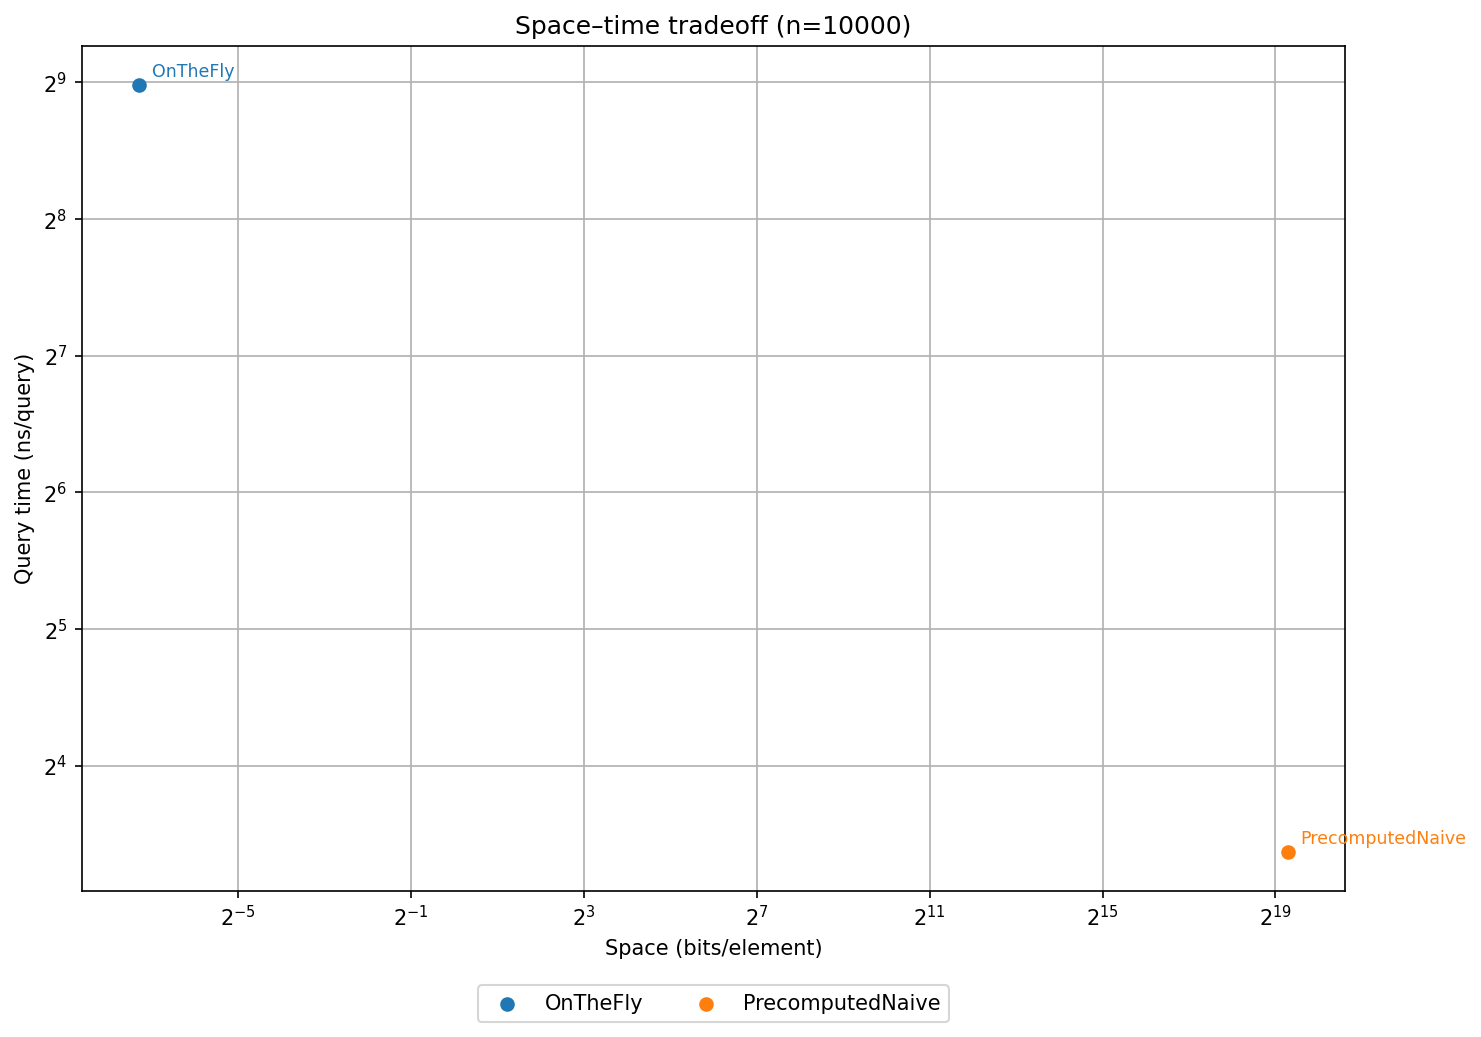
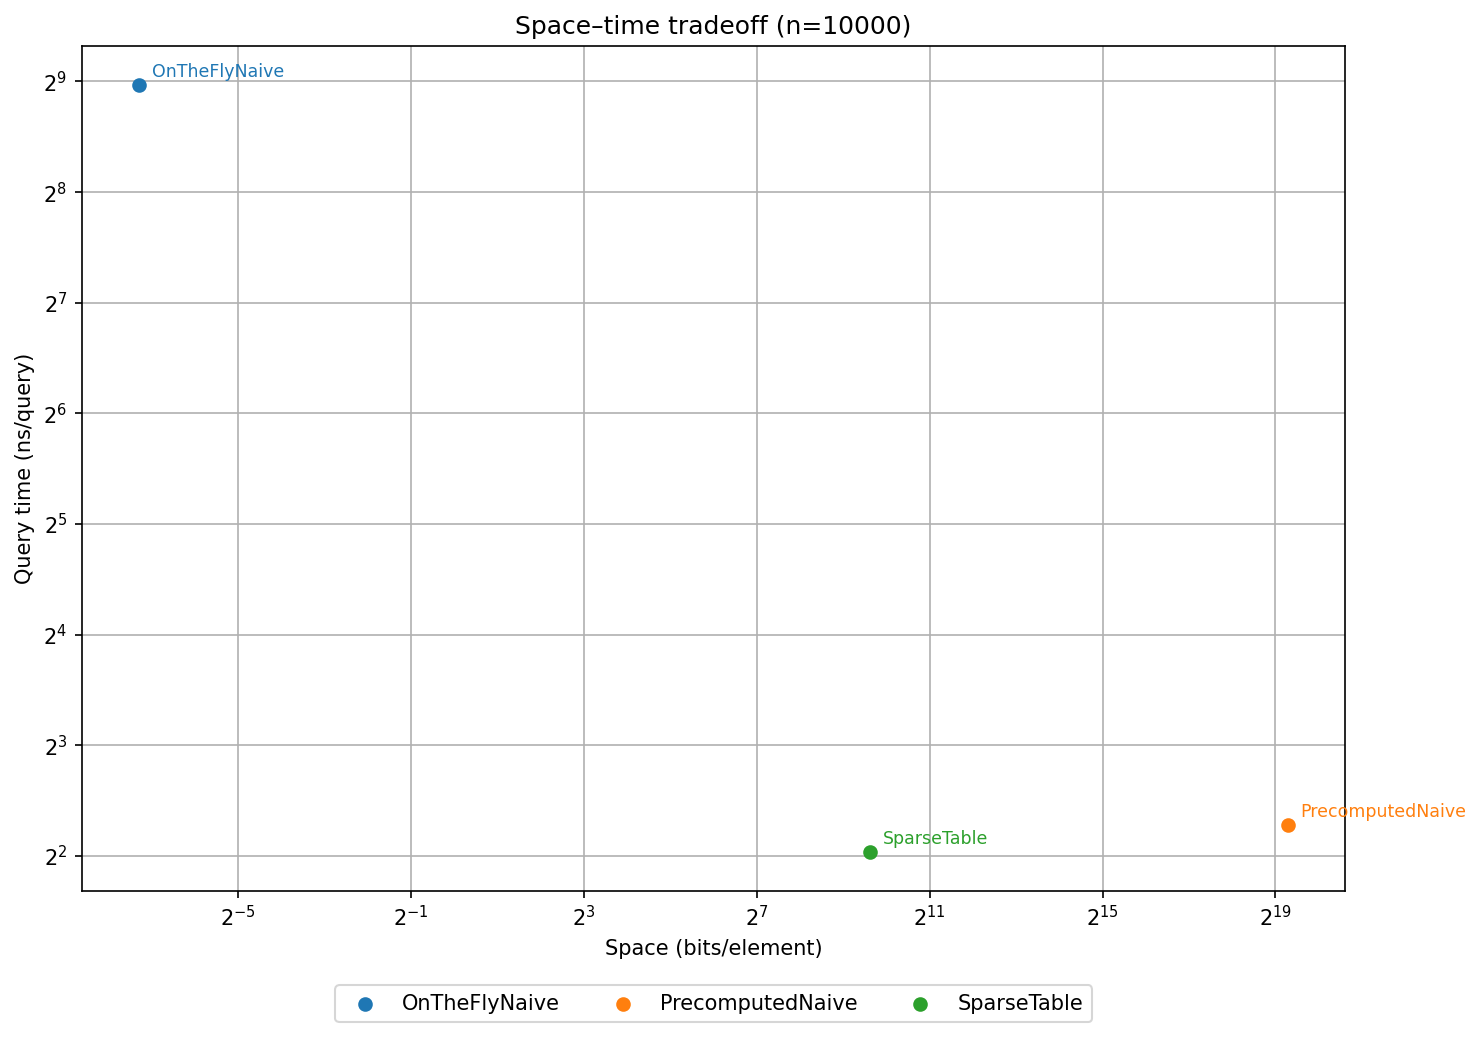
sparse table

diff --git a/rmq-cpp/main.cpp b/rmq-cpp/main.cpp
@@ -17,41 +17,48 @@
 //   uint64_t query(size_t l, size_t r) const;
 
 // Trivial implementation that computes each query on the fly.
-struct OnTheFlyNaive {
+struct OnTheFlyNaive
+{
 	static std::string name() { return "OnTheFlyNaive"; }
 	// NOTE: Improved implementations should simply return size_t::MAX.
 	static size_t max_n() { return 10'000; }
 
-	const std::vector<uint64_t>* data;
+	const std::vector<uint64_t> *data;
 
-	static OnTheFlyNaive build(const std::vector<uint64_t>& data) { return {&data}; }
+	static OnTheFlyNaive build(const std::vector<uint64_t> &data) { return {&data}; }
 
 	size_t space() const { return sizeof(*this); }
 
-	uint64_t query(size_t l, size_t r) const {
+	uint64_t query(size_t l, size_t r) const
+	{
 		uint64_t min = (*data)[l];
-		for(size_t i = l + 1; i <= r; ++i) min = std::min(min, (*data)[i]);
+		for (size_t i = l + 1; i <= r; ++i)
+			min = std::min(min, (*data)[i]);
 		return min;
 	}
 };
 
-struct PrecomputedNaive {
+struct PrecomputedNaive
+{
 	static std::string name() { return "PrecomputedNaive"; }
 
 	static size_t max_n() { return 10'000; }
 
 	std::vector<std::vector<uint64_t>> table;
 
-	static PrecomputedNaive build(const std::vector<uint64_t>& data) {
+	static PrecomputedNaive build(const std::vector<uint64_t> &data)
+	{
 		size_t n = data.size();
 
 		PrecomputedNaive rmq;
 		rmq.table.resize(n, std::vector<uint64_t>(n));
 
-		for(size_t l = 0; l < n; ++l) {
+		for (size_t l = 0; l < n; ++l)
+		{
 			uint64_t current_min = data[l];
 
-			for(size_t r = l; r < n; ++r) {
+			for (size_t r = l; r < n; ++r)
+			{
 				current_min = std::min(current_min, data[r]);
 				rmq.table[l][r] = current_min;
 			}
@@ -60,16 +67,79 @@ struct PrecomputedNaive {
 		return rmq;
 	}
 
-	size_t space() const {
+	size_t space() const
+	{
 		size_t total = sizeof(*this);
-		for(const auto& row : table) {
+		for (const auto &row : table)
+		{
 			total += row.capacity() * sizeof(uint64_t);
 		}
 		return total;
 	}
 
-	uint64_t query(size_t l, size_t r) const {
+	uint64_t query(size_t l, size_t r) const
+	{
 		return table[l][r];
+	}
+};
+
+struct SparseTable
+{
+	static std::string name() { return "SparseTable"; }
+	// NOTE: Improved implementations should simply return size_t::MAX.
+	static size_t max_n() { return SIZE_MAX; }
+
+	std::vector<std::vector<uint64_t>> table;
+
+	static SparseTable build(const std::vector<uint64_t> &data)
+	{
+		const size_t n = data.size();
+		const size_t k = static_cast<size_t>(std::log2(n));
+		SparseTable rmq;
+
+		rmq.table.resize(k + 1);
+
+		rmq.table[0] = data;
+
+		for (size_t i = 1; i <= k; i++)
+		{
+
+			size_t len = 1ULL << i;
+			size_t half = 1ULL << (i - 1);
+			size_t L = n + 1 - len;
+
+			rmq.table[i].resize(L);
+
+			for (size_t j = 0; j < L; j++)
+			{
+				rmq.table[i][j] = std::min(rmq.table[i - 1][j], rmq.table[i - 1][j + half]);
+			}
+		}
+
+		return rmq;
+	}
+
+	size_t space() const
+	{
+
+		size_t bytes = sizeof(*this);
+
+		for (const auto &row : table)
+		{
+
+			bytes += row.size() * sizeof(uint64_t);
+		}
+
+		return bytes;
+	}
+
+	uint64_t query(size_t l, size_t r) const
+	{
+
+		size_t len = r - l + 1;
+		size_t k = static_cast<size_t>(log2(len));
+
+		return std::min(table[k][l], table[k][r + 1 - (1ULL << k)]);
 	}
 };
 
@@ -77,32 +147,38 @@ struct PrecomputedNaive {
 // TODO: Implement the RMQ interface for additional data structures.
 // -------------------------------------------------------------
 
-struct Input {
+struct Input
+{
 	std::vector<uint64_t> data;
 	std::vector<std::pair<size_t, size_t>> queries;
 };
 
 // Read the given input file.
-Input read_input(const std::filesystem::path& file) {
+Input read_input(const std::filesystem::path &file)
+{
 	std::ifstream f(file);
 	size_t n, q;
 	f >> n >> q;
 	Input input;
 	input.data.resize(n);
-	for(auto& v : input.data) f >> v;
+	for (auto &v : input.data)
+		f >> v;
 	input.queries.resize(q);
-	for(auto& [l, r] : input.queries) f >> l >> r;
+	for (auto &[l, r] : input.queries)
+		f >> l >> r;
 	return input;
 }
 
 // Bench the given RMQ implementation on the given input, and print results in CSV format.
 template <typename RMQ>
-void bench(const Input& input) {
+void bench(const Input &input)
+{
 	std::cerr << std::setw(10) << input.data.size() << "\t" << std::setw(20) << RMQ::name() << "\t";
 
 	size_t max_n = RMQ::max_n();
 
-	if(input.data.size() > max_n) {
+	if (input.data.size() > max_n)
+	{
 		std::cerr << "skipped\n";
 		return;
 	}
@@ -110,24 +186,27 @@ void bench(const Input& input) {
 	auto rmq = RMQ::build(input.data);
 	std::cerr << std::setw(10) << rmq.space() << "\t";
 
-	auto start   = std::chrono::high_resolution_clock::now();
+	auto start = std::chrono::high_resolution_clock::now();
 	uint64_t sum = 0;
-	for(auto& [l, r] : input.queries) sum += rmq.query(l, r);
+	for (auto &[l, r] : input.queries)
+		sum += rmq.query(l, r);
 	auto end = std::chrono::high_resolution_clock::now();
 
 	double elapsed =
-	    static_cast<double>(
-	        std::chrono::duration_cast<std::chrono::nanoseconds>(end - start).count()) /
-	    static_cast<double>(input.queries.size());
+		static_cast<double>(
+			std::chrono::duration_cast<std::chrono::nanoseconds>(end - start).count()) /
+		static_cast<double>(input.queries.size());
 
 	std::cout << input.data.size() << "," << input.queries.size() << "," << RMQ::name() << ","
-	          << rmq.space() << "," << sum << "," << elapsed << "\n";
+			  << rmq.space() << "," << sum << "," << elapsed << "\n";
 	std::cerr << std::setw(3) << (sum % 1000) << "\t" << std::fixed << std::setprecision(2)
-	          << elapsed << "ns/q\n";
+			  << elapsed << "ns/q\n";
 }
 
-int main(int argc, char* argv[]) {
-	if(argc < 2) {
+int main(int argc, char *argv[])
+{
+	if (argc < 2)
+	{
 		std::cerr << "Usage: rmq-cpp <input_dir>\n";
 		return 1;
 	}
@@ -138,19 +217,27 @@ int main(int argc, char* argv[]) {
 	std::cerr << "Reading input from " << file_or_dir << " ..\n";
 
 	std::vector<Input> inputs;
-	if(std::filesystem::is_regular_file(file_or_dir)) {
+	if (std::filesystem::is_regular_file(file_or_dir))
+	{
 		inputs.push_back(read_input(file_or_dir));
-	} else {
-		for(auto& entry : std::filesystem::directory_iterator(file_or_dir)) {
-			if(entry.path().extension() == ".in") inputs.push_back(read_input(entry.path()));
+	}
+	else
+	{
+		for (auto &entry : std::filesystem::directory_iterator(file_or_dir))
+		{
+			if (entry.path().extension() == ".in")
+				inputs.push_back(read_input(entry.path()));
 		}
 		std::sort(inputs.begin(), inputs.end(),
-		          [](const Input& a, const Input& b) { return a.data.size() < b.data.size(); });
+				  [](const Input &a, const Input &b)
+				  { return a.data.size() < b.data.size(); });
 	}
 
-	for(const auto& input : inputs) {
+	for (const auto &input : inputs)
+	{
 		bench<OnTheFlyNaive>(input);
 		bench<PrecomputedNaive>(input);
+		bench<SparseTable>(input);
 		// TODO: Add other implementations here.
 	}
 

diff --git a/plot.py b/plot.py
@@ -17,6 +17,7 @@ assert (checksums.eq(ref, axis=0) | checksums.isna()).all(
 
 plt.rcParams["axes.grid"] = True
 
+
 df["space"] = df["space"] * 8 / df["n"]  # bytes → bits per element
 
 names = sorted(df["name"].unique())
@@ -54,7 +55,9 @@ fig.savefig("plots/space.png", dpi=150, bbox_inches="tight")
 plt.close(fig)
 
 # Plot 3: space-time tradeoff at max n
-max_n = df["n"].max()
+counts = df.groupby("n")["name"].nunique()
+full_ns = counts[counts == len(names)].index
+max_n = full_ns.max()
 tradeoff = df[df["n"] == max_n]
 fig, ax = plt.subplots(figsize=(10, 7))
 for _, r in tradeoff.iterrows():
